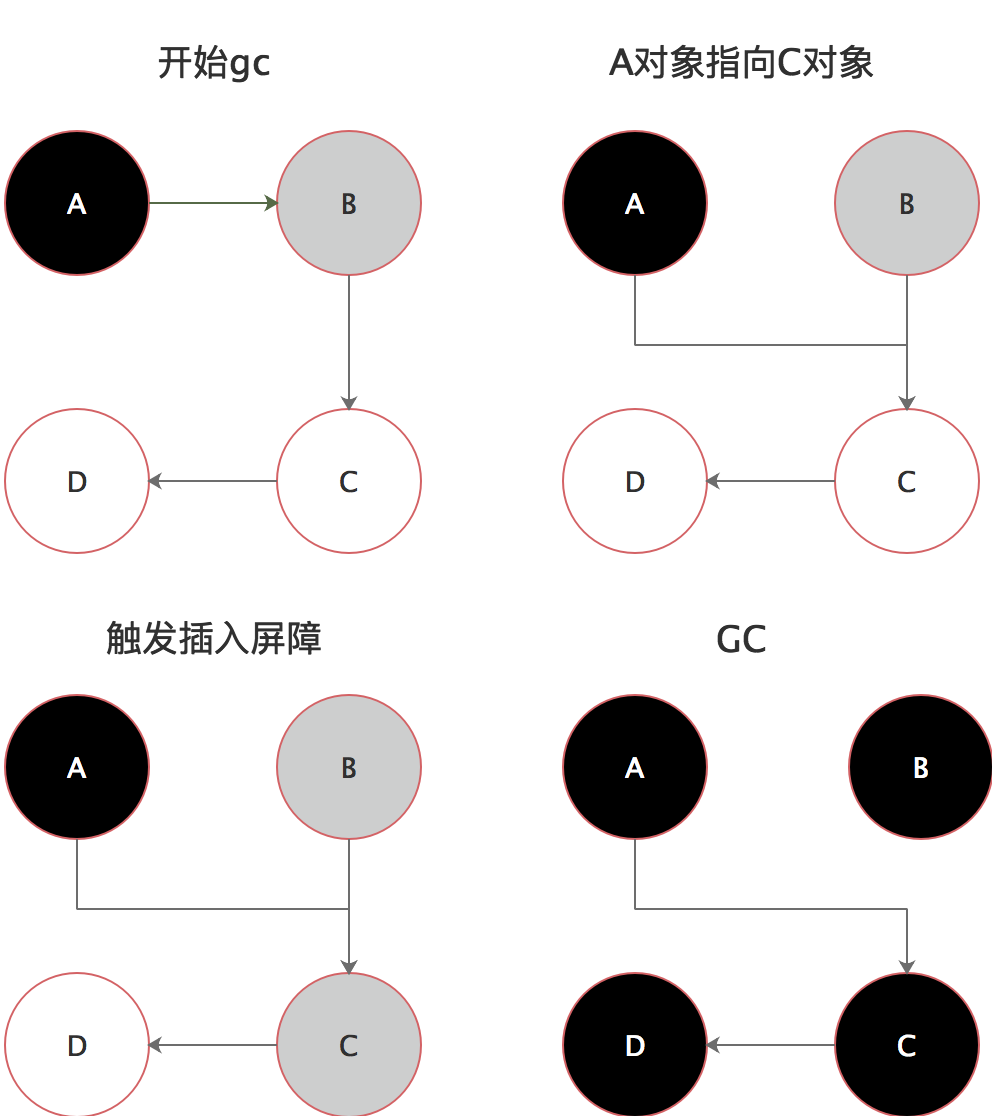
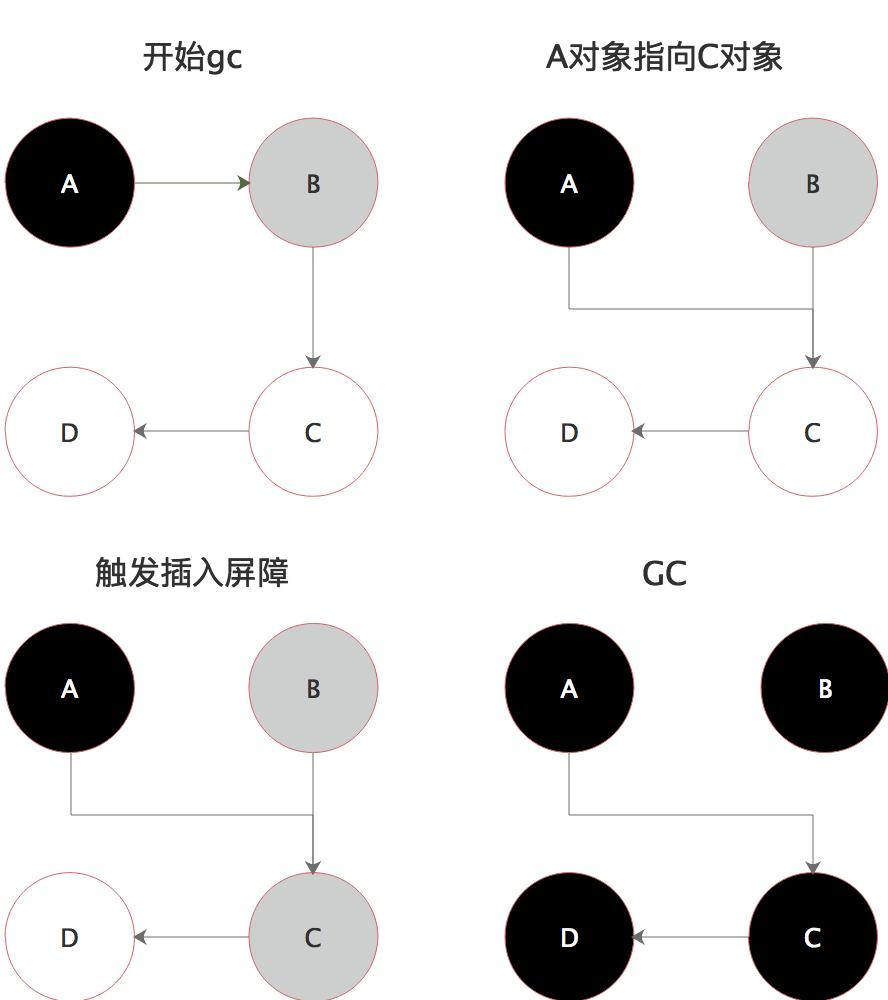
gc

diff --git a/gc/gc.md b/gc/gc.md
@@ -153,7 +153,7 @@ writePointer(slot, ptr):
 
 比如上面黑色A指向白色D，A在引用D的时候直接将D标记为灰色就可以了。   
 
-<img src="/img/gc_3.png" width = "437" height = "500" alt="gc" align="center" />
+<img src="/img/gc_3.png" width = "444" height = "500" alt="gc" align="center" />
 
 在Golang中，对栈上指针的写入添加写屏障的成本很高，所以Go选择仅对堆上的指针插入增加写屏障，这样就会出现在扫描结束后，栈上仍存在引用白色对象的情况，这时的栈是灰色的，不满足三色不变式，所以需要对栈进行重新扫描使其变黑，完成剩余对象的标记，这个过程需要STW。这期间会将所有goroutine挂起，当有大量应用程序时，时间可能会达到10～100ms。  
 
